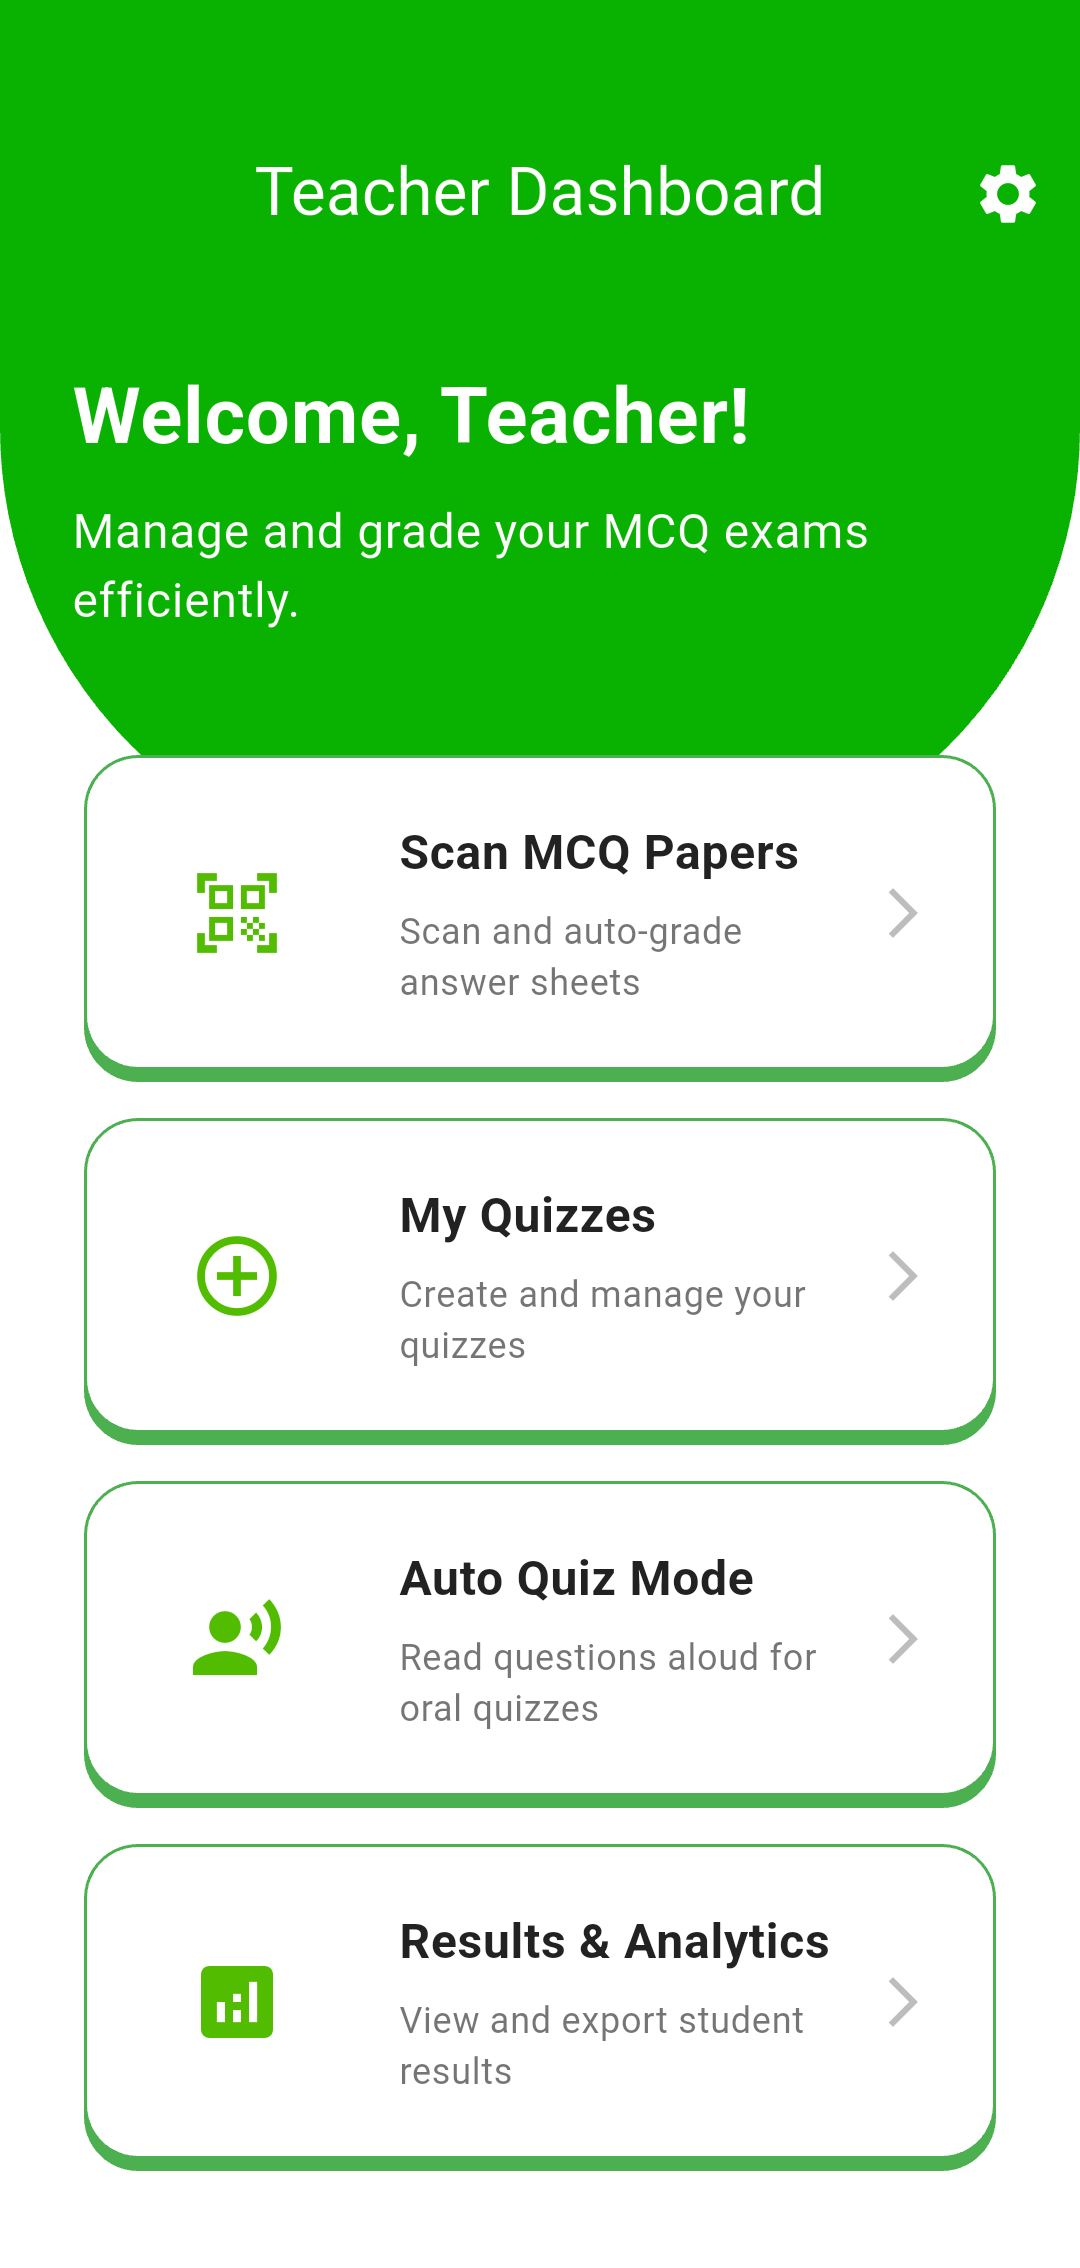
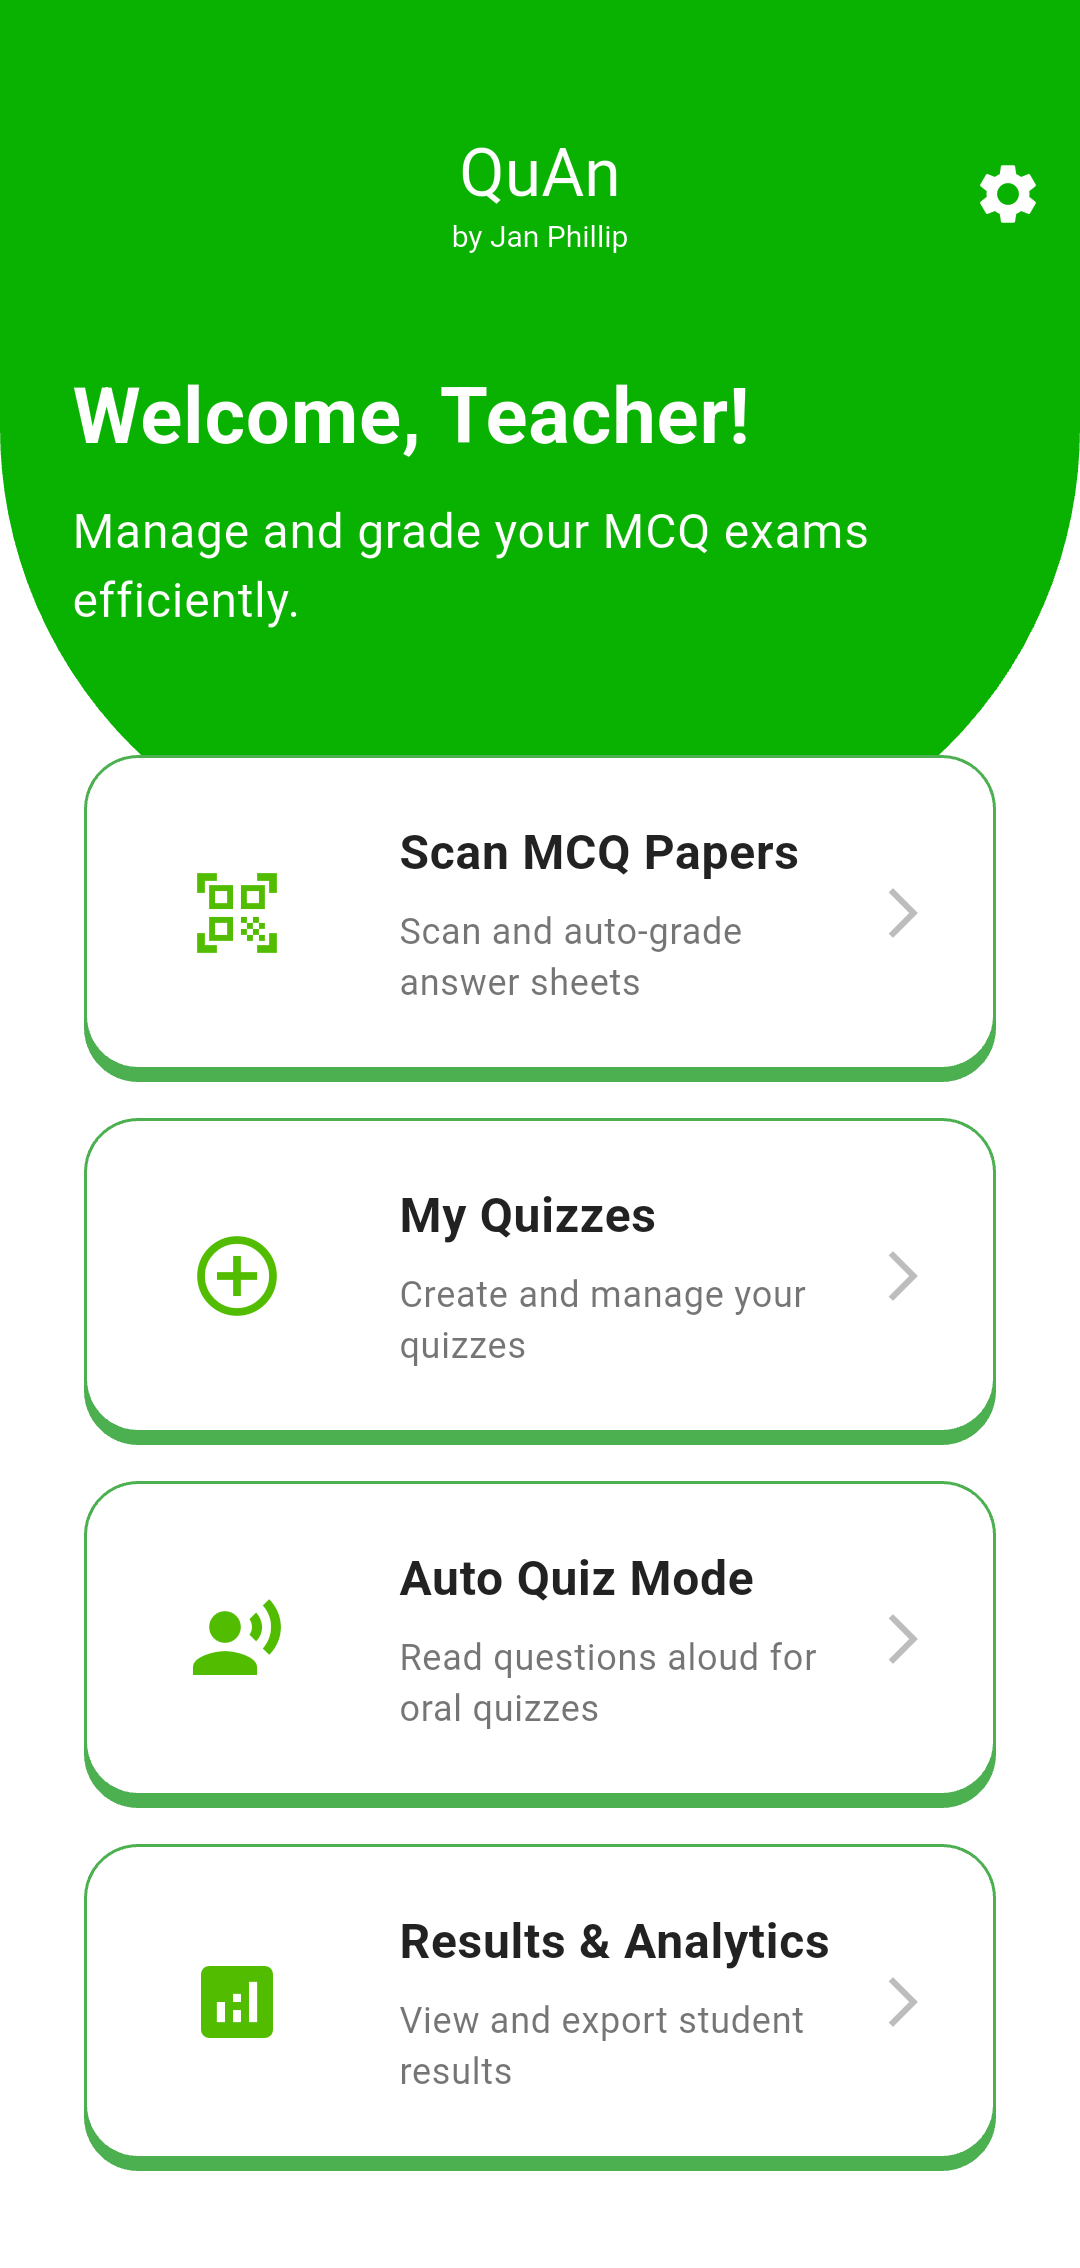
More screenshots

Changed region(s): [[0.2444, 0.0617, 0.7639, 0.1235]]

diff --git a/test_driver/app_test.dart b/test_driver/app_test.dart
@@ -54,9 +54,8 @@ void main() {
     test('Navigate to Quizzes Screen and take screenshot', () async {
       // Example: Find a button by tooltip or key and tap it
       // Emulate back button press to return to the dashboard
-      await driver!.tap(find.byTooltip('Back'));
-      await driver!.waitFor(find.text('Teacher Dashboard'));
-      ;
+      await driver!.tap(find.pageBack());
+      await driver!.waitFor(find.text('QuAn'));
       final SerializableFinder loginButton = find.text('My Quizzes');
       await driver!.tap(loginButton);
 
@@ -69,7 +68,23 @@ void main() {
       await driver!.tap(createQuizButton);
 
       await takeScreenshot(driver!, '04_my_quizzes_screen');
-      // Add more navigation and screenshot steps here
+
+      await driver!.tap(find.pageBack());
+      await driver!.waitFor(find.text('My Quizzes'));
+      await driver!.tap(find.text('What is your name?'));
+      await Future.delayed(const Duration(seconds: 2));
+      await takeScreenshot(driver!, '05_manage_questions_screen');
+
+      await driver!.tap(find.pageBack());
+      await driver!.tap(find.pageBack());
+      await driver!.waitFor(find.text('QuAn'));
+      await driver!.tap(find.text('Auto Quiz Mode'));
+      await takeScreenshot(driver!, '06_auto_quiz_screen');
+
+      await driver!.tap(find.pageBack());
+      await driver!.waitFor(find.text('QuAn'));
+      await driver!.tap(find.text('Results & Analytics'));
+      await takeScreenshot(driver!, '07_results_screen');
     });
   });
 }
